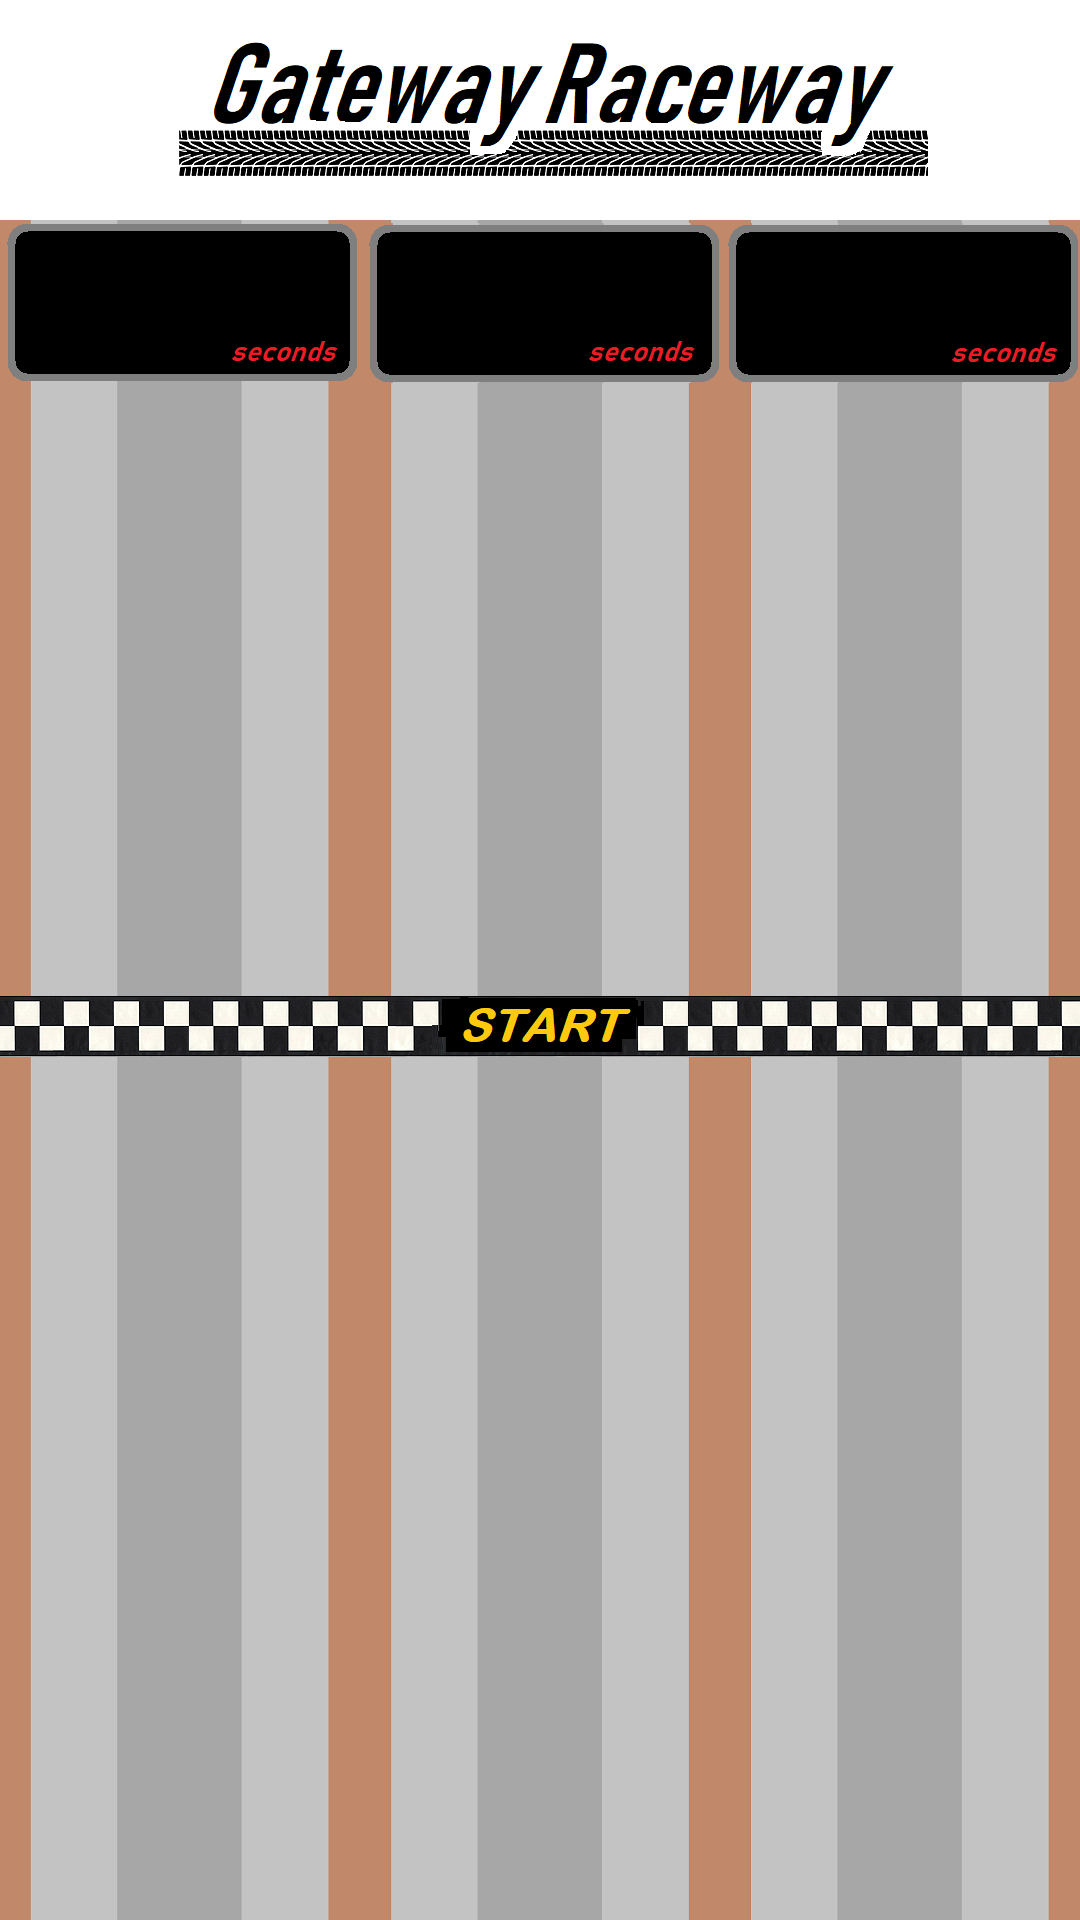
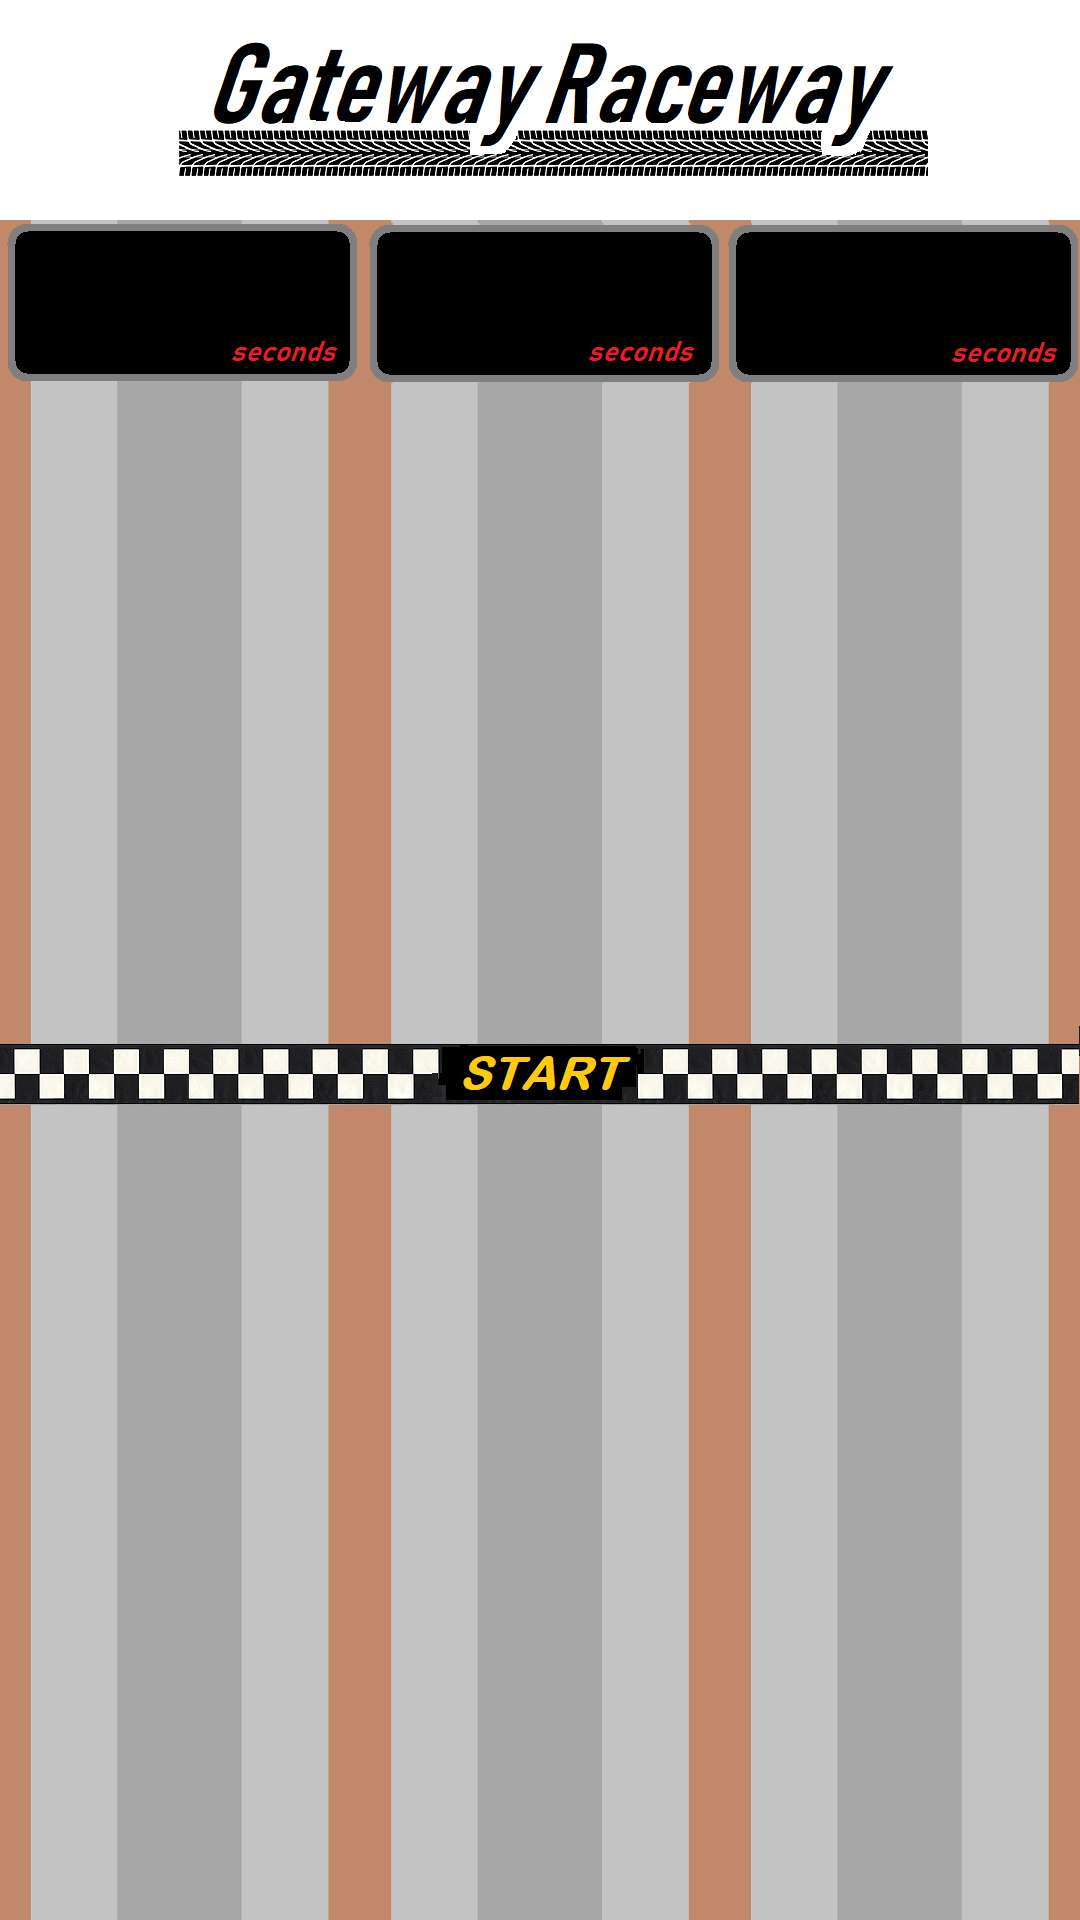
minor image tweaks

Changed region(s): [[0.0, 0.5, 1.0, 0.5938]]

diff --git a/local/index.html b/local/index.html
@@ -12,11 +12,11 @@
     }
 
     .rowTime {
-      height: 20vh;
+      height: 25vh;
     }
 
     .rowAward {
-      height: 35vh;
+      height: 40vh;
     }
 
     .rowCar {
